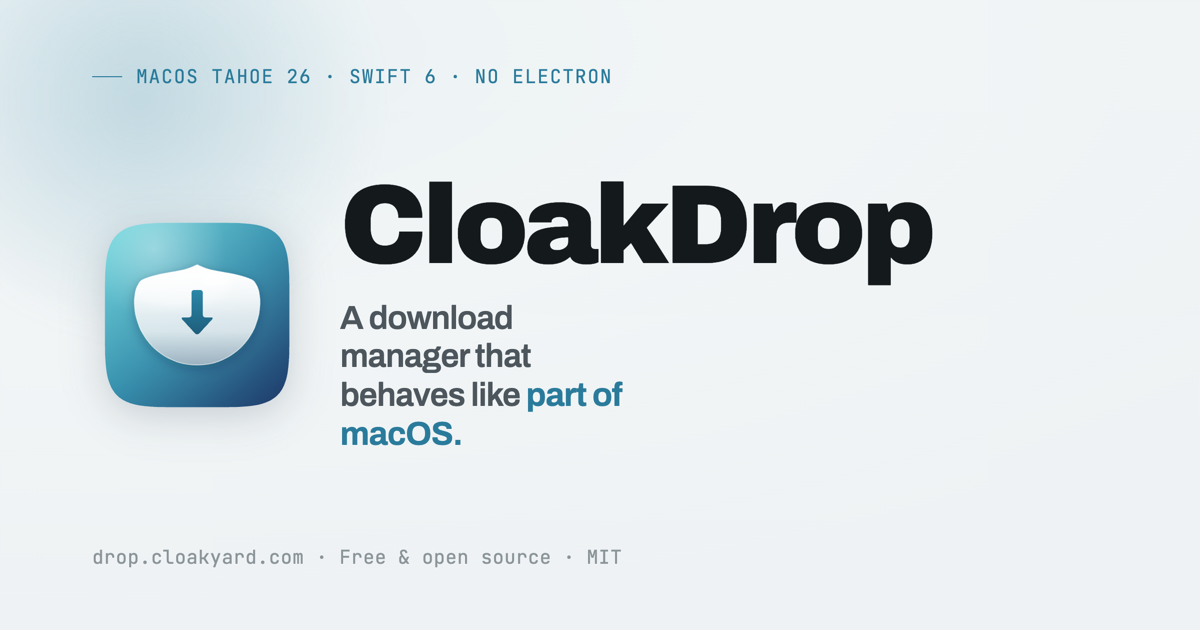
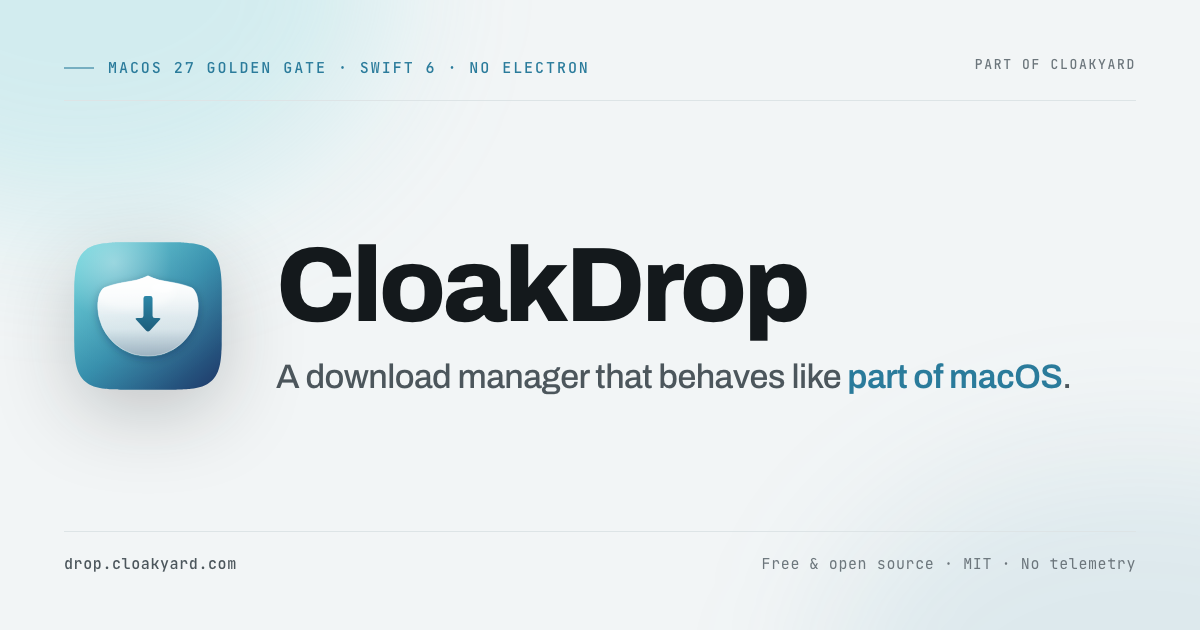
Rebuild the social card from HTML and rework its typography
The card was a hand-made PNG, so every copy change meant redrawing
pixels. Render it from HTML instead — same fonts, colours and tracking
as the site's design system — via scripts/make-og.sh.

The old layout tucked the description into a narrow column beside the
icon, stranding the right third of the card empty. Give it its own
full-width text column sized to run as one line, add an editorial top
rule, and split the footer so both rules carry the full width. Secondary
mono text moves off --ink-4, which was ~2.9:1 and vanished at the size
these cards are actually viewed.

diff --git a/assets/social/og.html b/assets/social/og.html
@@ -1,0 +1,216 @@
+<!doctype html>
+<html lang="en">
+  <head>
+    <meta charset="utf-8" />
+    <title>CloakDrop — Open Graph card</title>
+    <!--
+      Source for assets/social/og.png (1200×630). Render it with scripts/make-og.sh, which
+      screenshots this file headlessly — never hand-edit the PNG.
+
+      The layout is the site's editorial grid at card scale: a mono kicker and a rule at the
+      top, the mark + wordmark + tagline as one centred block, and a footer split across the
+      full width. Fonts, colours and tracking are lifted from apps/site/src/styles/global.css
+      so the card and the site read as one design.
+    -->
+    <style>
+      @font-face {
+        font-family: 'Archivo';
+        font-style: normal;
+        font-weight: 100 900;
+        src: url('../../apps/site/public/fonts/archivo-latin.woff2') format('woff2');
+      }
+      @font-face {
+        font-family: 'JetBrains Mono';
+        font-style: normal;
+        font-weight: 100 800;
+        src: url('../../apps/site/public/fonts/jetbrains-mono-latin.woff2') format('woff2');
+      }
+
+      :root {
+        --accent: #2a7b9b;
+        --bg: #f2f5f6;
+        --ink: #14191c;
+        --ink-2: #4c565c;
+        --ink-3: #6c767c;
+        --line: #dde4e6;
+      }
+
+      * {
+        margin: 0;
+        padding: 0;
+        box-sizing: border-box;
+      }
+
+      body {
+        width: 1200px;
+        height: 630px;
+        background: var(--bg);
+        font-family: 'Archivo', sans-serif;
+        -webkit-font-smoothing: antialiased;
+        overflow: hidden;
+      }
+
+      /* Ambient wash — the same top-left aurora the site hero sits in. */
+      .card {
+        position: relative;
+        width: 100%;
+        height: 100%;
+        padding: 56px 64px;
+        display: flex;
+        flex-direction: column;
+        isolation: isolate;
+      }
+
+      .card::before,
+      .card::after {
+        content: '';
+        position: absolute;
+        border-radius: 50%;
+        filter: blur(70px);
+        z-index: -1;
+      }
+
+      .card::before {
+        top: -260px;
+        left: -230px;
+        width: 620px;
+        height: 480px;
+        background: rgba(95, 205, 214, 0.22);
+      }
+
+      .card::after {
+        right: -260px;
+        bottom: -280px;
+        width: 640px;
+        height: 460px;
+        background: rgba(42, 123, 155, 0.1);
+      }
+
+      /* Top row — kicker left, suite mark right, on one hairline. */
+      .top {
+        display: flex;
+        align-items: baseline;
+        justify-content: space-between;
+        padding-bottom: 22px;
+        border-bottom: 1px solid var(--line);
+      }
+
+      .kicker {
+        display: flex;
+        align-items: center;
+        gap: 14px;
+        font-family: 'JetBrains Mono', monospace;
+        font-size: 15px;
+        font-weight: 500;
+        letter-spacing: 0.13em;
+        text-transform: uppercase;
+        color: var(--accent);
+      }
+
+      .kicker::before {
+        content: '';
+        width: 30px;
+        height: 2px;
+        background: var(--accent);
+        opacity: 0.55;
+      }
+
+      .suite {
+        font-family: 'JetBrains Mono', monospace;
+        font-size: 13px;
+        font-weight: 500;
+        letter-spacing: 0.13em;
+        text-transform: uppercase;
+        color: var(--ink-3);
+      }
+
+      /* Middle — mark + wordmark + tagline, the tagline running the full text column. */
+      .main {
+        flex: 1;
+        display: flex;
+        align-items: center;
+        gap: 44px;
+      }
+
+      .mark {
+        width: 168px;
+        height: 168px;
+        flex: none;
+        filter: drop-shadow(0 22px 40px rgba(12, 17, 20, 0.22));
+      }
+
+      .copy {
+        flex: 1;
+        min-width: 0;
+      }
+
+      .wordmark {
+        font-size: 106px;
+        font-weight: 800;
+        letter-spacing: -0.035em;
+        line-height: 1;
+        color: var(--ink);
+      }
+
+      /* One line, sized to run the full text column — the card's whole width is the
+         measure. Any longer and it wraps to a short second line, stranding the right
+         third of the card empty. */
+      .tagline {
+        margin-top: 16px;
+        font-size: 34px;
+        font-weight: 500;
+        letter-spacing: -0.017em;
+        line-height: 1.3;
+        white-space: nowrap;
+        color: var(--ink-2);
+      }
+
+      .tagline em {
+        font-style: normal;
+        font-weight: 600;
+        color: var(--accent);
+      }
+
+      /* Footer — split left/right so the rule carries the full width. */
+      .bottom {
+        display: flex;
+        align-items: baseline;
+        justify-content: space-between;
+        padding-top: 22px;
+        border-top: 1px solid var(--line);
+        font-family: 'JetBrains Mono', monospace;
+        font-size: 15px;
+        letter-spacing: 0.04em;
+        color: var(--ink-3);
+      }
+
+      .bottom .domain {
+        font-weight: 500;
+        color: var(--ink-2);
+      }
+    </style>
+  </head>
+  <body>
+    <div class="card">
+      <div class="top">
+        <p class="kicker">macOS 27 Golden Gate · Swift 6 · No Electron</p>
+        <p class="suite">Part of Cloakyard</p>
+      </div>
+
+      <div class="main">
+        <img class="mark" src="../logo/cloakdrop.svg" alt="" />
+        <div class="copy">
+          <p class="wordmark">CloakDrop</p>
+          <p class="tagline">
+            A download manager that behaves like <em>part of macOS</em>.
+          </p>
+        </div>
+      </div>
+
+      <div class="bottom">
+        <span class="domain">drop.cloakyard.com</span>
+        <span>Free &amp; open source · MIT · No telemetry</span>
+      </div>
+    </div>
+  </body>
+</html>

diff --git a/assets/README.md b/assets/README.md
@@ -13,7 +13,8 @@ assets/
 │   ├── favicon.png            # 180×180
 │   └── apple-touch-icon.png   # 512×512
 ├── social/
-│   └── og.png                 # 1200×630 Open Graph / Twitter share card
+│   ├── og.html                # source for the card — the thing you edit
+│   └── og.png                 # 1200×630 Open Graph / Twitter share card (rendered)
 └── screenshots/
     ├── hero.webp              # app hero screenshot, 2240w, transparent (primary)
     └── hero.png               # PNG fallback for the same
@@ -50,9 +51,22 @@ binaries in version control.
 1. Replace the file **here**, under `assets/…`.
 2. Run `node scripts/sync-assets.mjs` (or just `npm run build` in `apps/site`).
 
-That's it — every consumer picks it up. Renditions (extra sizes, WebP, the OG card) are
-produced once by a human and committed here; the sync step only distributes them, it never
-resizes or re-encodes.
+That's it — every consumer picks it up. Renditions (extra sizes, WebP) are produced once by
+a human and committed here; the sync step only distributes them, it never resizes or
+re-encodes.
+
+## The social card
+
+`social/og.png` is **rendered, not drawn** — edit [`social/og.html`](social/og.html) and run:
+
+```bash
+scripts/make-og.sh            # headless Chrome screenshots og.html → og.png (1200×630)
+node scripts/sync-assets.mjs  # …then distribute it
+```
+
+The card borrows its fonts, colours and tracking straight from the site's design system
+(`apps/site/src/styles/global.css`), so the two stay in step and a copy change costs a
+re-render rather than a redraw.
 
 ## Adding a consumer
 
